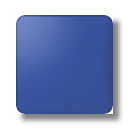
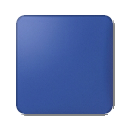
L5 down to 18 cars, and the board tiles lose their grit
Three things the user asked for in one pass, all on the board's look and feel.

L5: 60 cars -> 18. The old set was 60 cars of 2-19 seats each ("nhiều xe có số
slime bé quá"); now 18 cars of 2-109 seats, same board, same picture, same
lanes: 3, four buried "?" cars kept. Difficulty is unchanged on BOTH meters --
trip-sim 93 -> 92, concurrent-sim 97 -> 97 -- which is the point: fewer cars is
HARDER here, not easier, because total seats equal total cells, so fewer cars
means bigger cars means each one squats in a waiting bay longer. 12 cars (one
per colour, a 276-seat background car) falls to 70/13. Seat ceiling 110 (L1
size) was the user's call; that puts the arithmetic floor at 16 cars, but no
16- or 17-car ordering held the win rate, so 18 is the real floor. Only
configurations where both models agree were accepted.

Tiles: the keycap art carried a baked drop shadow on its right and bottom edges
(alpha ~4 mid-edge, ~66 at the corner). Tiles draw at 1.3x the cell so a
neighbour covers most of it, except the diamond gap where four rounded corners
meet -- so every cell wore a grey wedge. scripts/strip-tile-shadow.mjs clears
it from all 19 PNGs by SHAPE (solid-alpha mask, dilated 2px), not by colour: a
colour filter ate 7484 px of tile-12's navy body. Body pixels verified
unchanged, file by file. Cache-buster bumped to v7.

Two-layer marker: removed. It was the mark the user was actually pointing at --
[…]

Changed region(s): [[0.1562, 0.125, 0.9688, 0.9688]]

diff --git a/src/scenes/GameScene.ts b/src/scenes/GameScene.ts
@@ -459,7 +459,7 @@ export class GameScene extends Phaser.Scene {
       // Glossy keycap board-tile art (public/art/slime/tile-<id>.png). If present it
       // REPLACES the procedural flat tile in create(); missing ones fall back to it.
       // ?v= cache-buster: bump when the tile PNGs change so browsers refetch (they cache by URL).
-      this.load.image(`tile-${i}`, `art/slime/tile-${i}.png?v=6`);
+      this.load.image(`tile-${i}`, `art/slime/tile-${i}.png?v=7`);
     }
     // XU VÀNG màn thắng (video mẫu IMG_6489). Art thật user sẽ gửi vào public/art/coin.png;
     // thiếu/hỏng → create() vẽ placeholder (makeCoinTexture).
@@ -1209,10 +1209,9 @@ export class GameScene extends Phaser.Scene {
           // hidden "?" slime — value-greyscale of the real colour (A+E), revealed on neighbour clear
           this.keys[idx] = this.makeHiddenKey(x, y, keySize, this.level.board[idx], idx);
         } else {
+          // NO 2-layer marker (user 2026-08-03: "cho ô vuông full của nó đi"). A 2-layer cell
+          // now looks exactly like a normal one — the second colour is a surprise on collect.
           this.keys[idx] = this.makeKey(id, x, y, keySize);
-          // 2-layer slime: mark it with a small corner fold so the player sees it hides
-          // a second colour underneath (revealed when the top is collected).
-          if (this.level.layer2 && this.level.layer2[idx] >= 0) this.markTwoLayer(this.keys[idx]!, keySize);
         }
       }
     }
@@ -1508,20 +1507,12 @@ export class GameScene extends Phaser.Scene {
     }
   }
 
-  // A small white corner fold marking a 2-layer slime (a different colour hides under it).
-  private markTwoLayer(tile: Phaser.GameObjects.Container, s: number) {
-    const g = this.add.graphics();
-    g.fillStyle(0xffffff, 0.9);
-    g.beginPath();
-    g.moveTo(s * 0.5 - s * 0.3, -s * 0.5);
-    g.lineTo(s * 0.5, -s * 0.5);
-    g.lineTo(s * 0.5, -s * 0.5 + s * 0.3);
-    g.closePath();
-    g.fillPath();
-    g.lineStyle(Math.max(1, s * 0.035), 0x2a2a3a, 0.55);
-    g.strokePath();
-    tile.add(g);
-  }
+  // (markTwoLayer removed 2026-08-03 — the 2-layer corner fold is gone by user request; a
+  // 2-layer cell is drawn as a plain full tile. If it ever comes back: anything drawn on a
+  // tile must stay inside ±0.35s, because the keycap art is 1.3× the cell and the tile to the
+  // RIGHT is created later, so it paints over everything past that. The old fold reached
+  // 0.50s, lost its right half to the neighbour, and the surviving outlined shard read as
+  // dirt at a ~15px cell.)
 
   // An obstacle tile (hard/soft rock, or wood), `code` = BASE code. `tileSize` is its
   // footprint (cell for 1×1, cell*2 for a BIG 2×2). `cells` = every board index it
